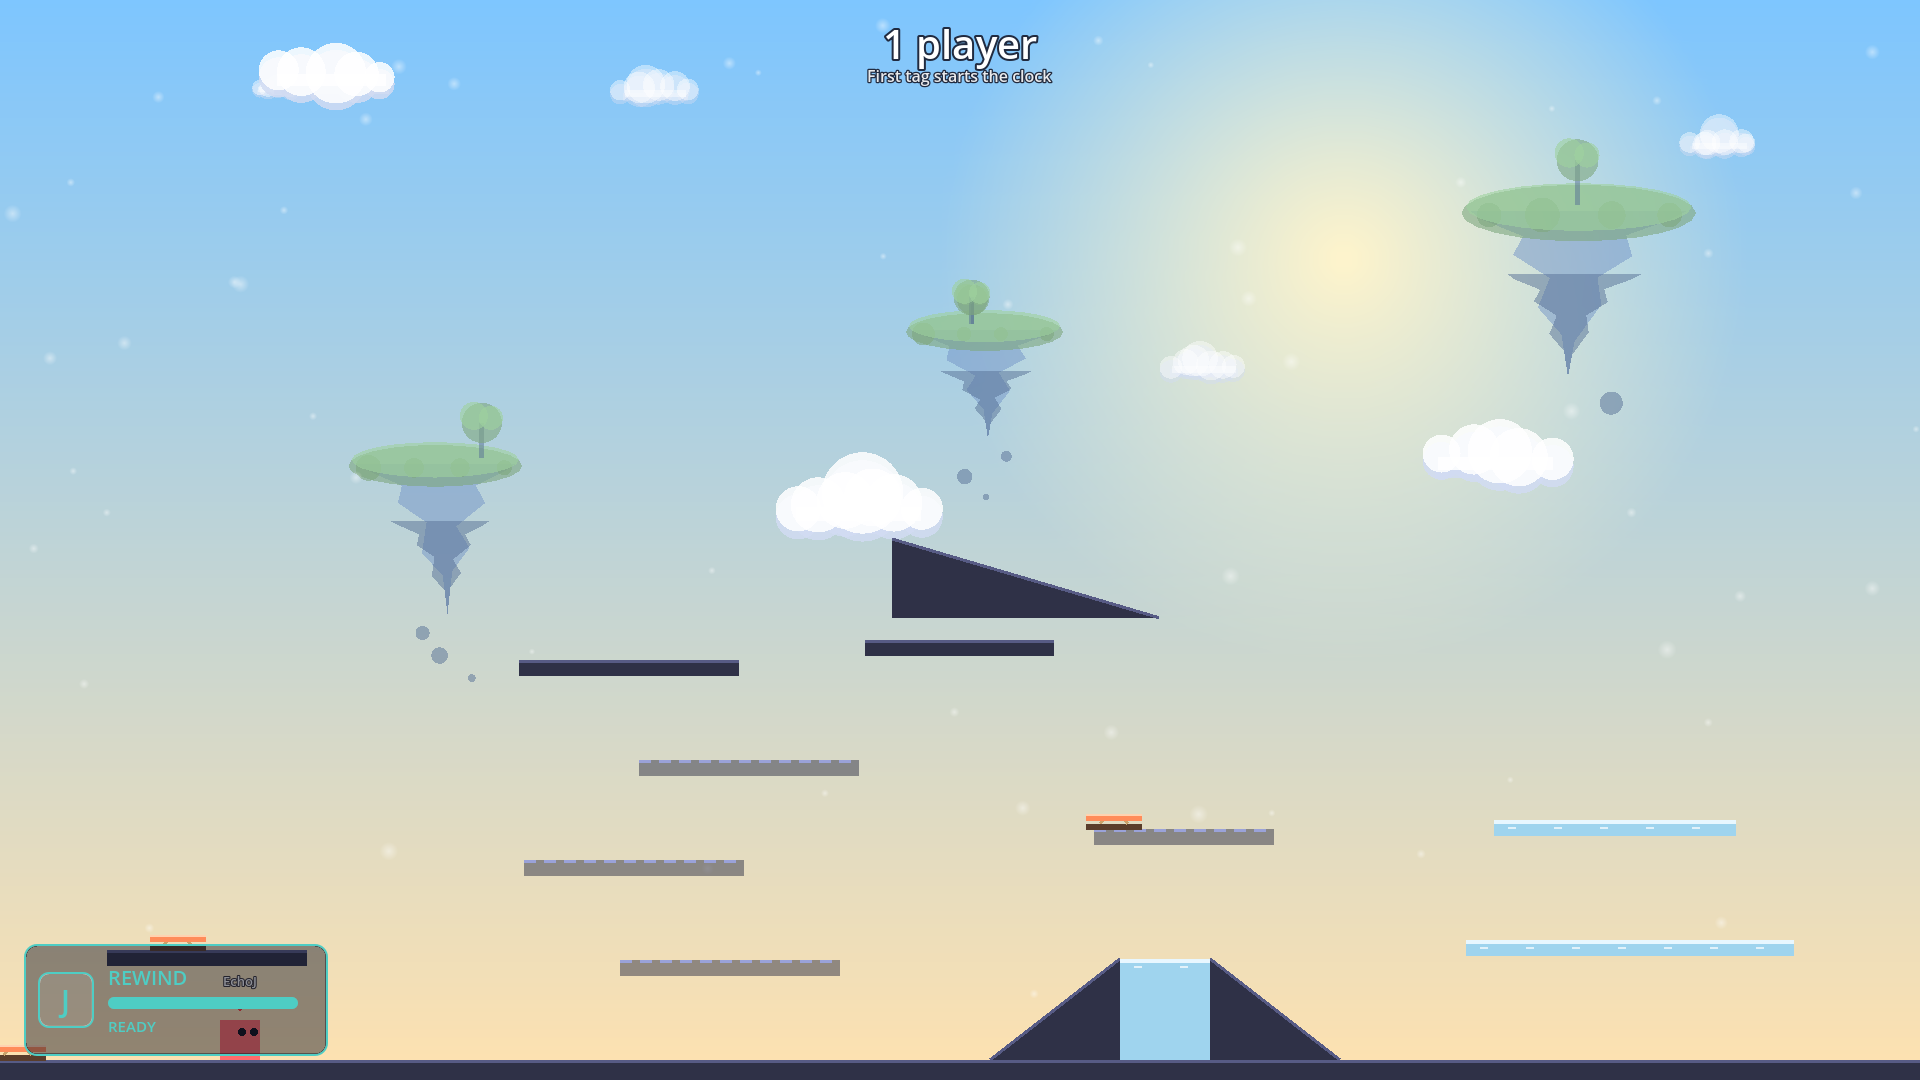
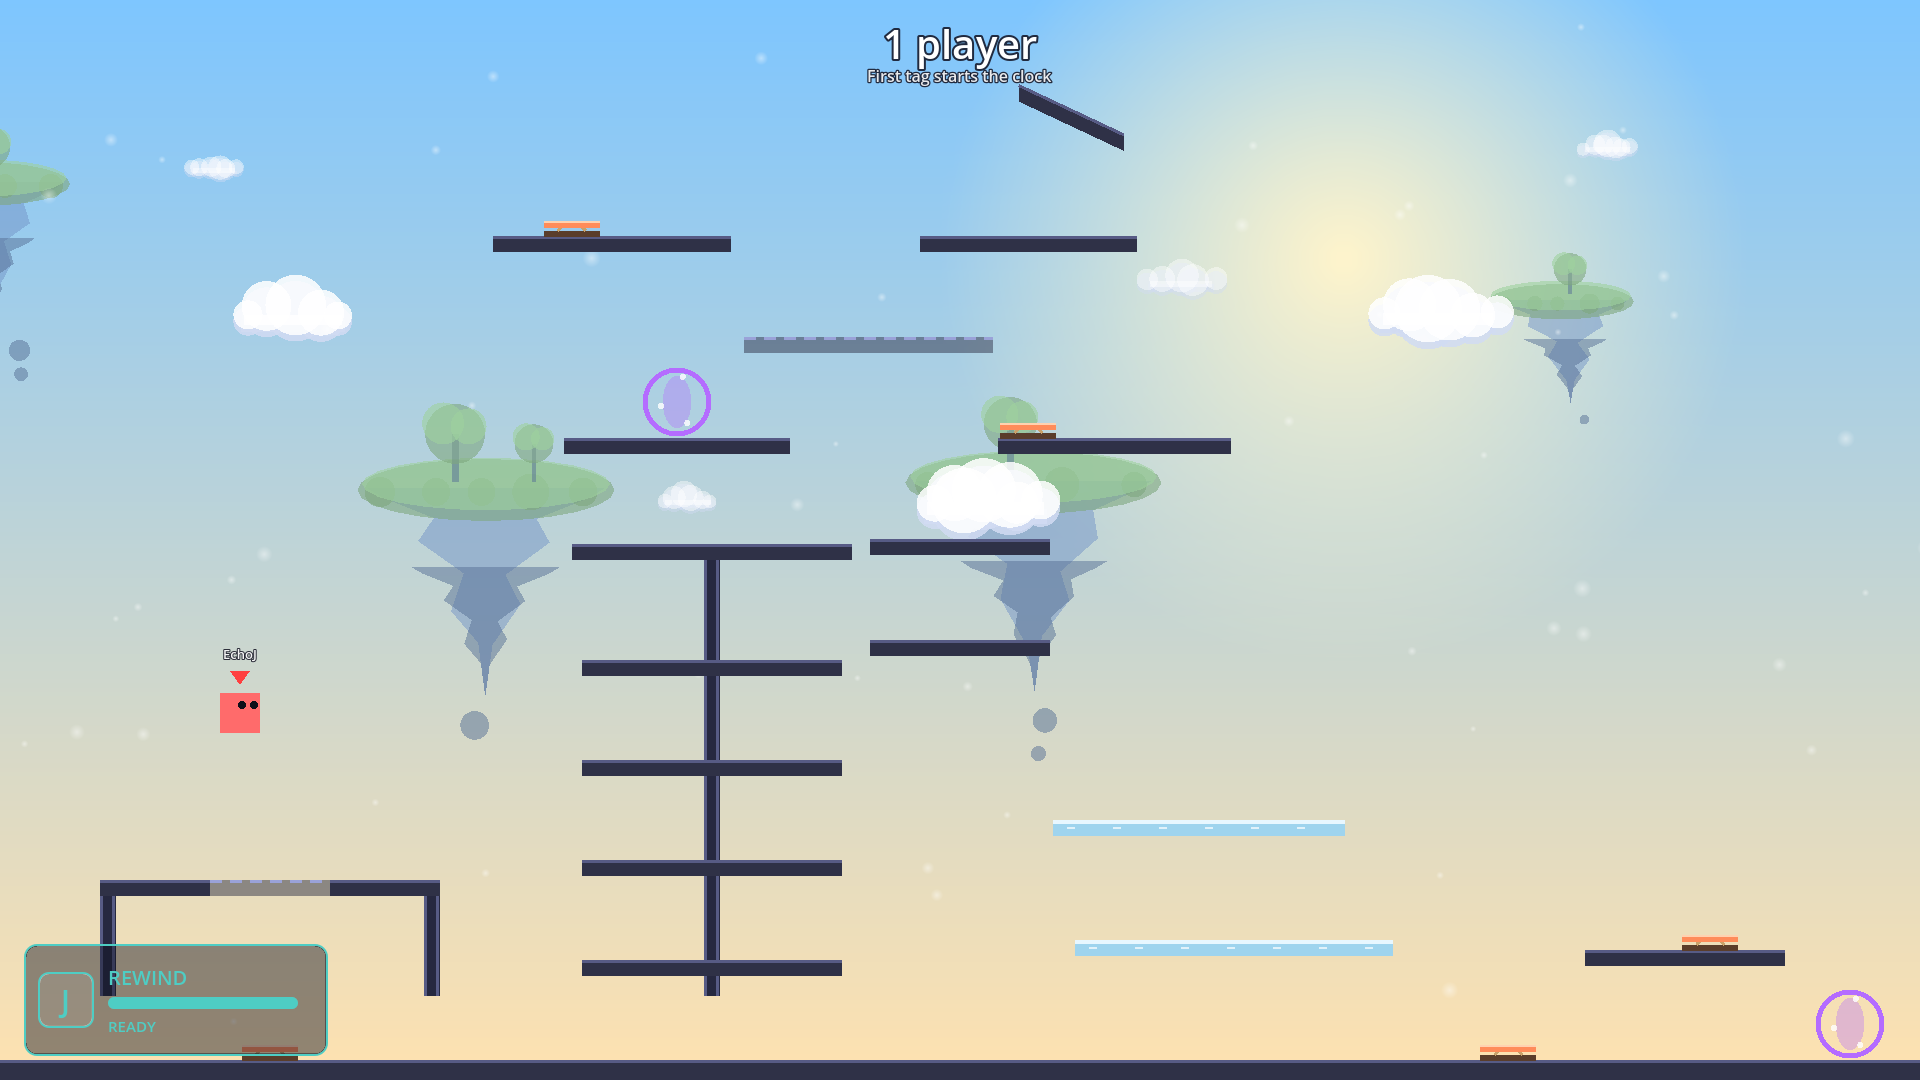
Slabs not wedges, mast not mounds: terrain rework per playtest feedback
- Ground mounds and the ridge are gone (the ramp-sided boxes read as
  wonky). Angled platforms are now normal 16px-thick slabs tilted at
  slight varying angles (5-17 degrees) - the rect is the bounding box
  including thickness, collision is a convex parallelogram, and the
  planner reads walk heights off the actual top edge.
- New landmark: the Mast - a tall spine wall with rungs crossing it
  (some thru), a crow's nest joining the sides at the top, and a 64px
  gap at the base so the ground stays runnable. Two parallel ladders
  sharing a divider; juke by switching sides under or over.
- _edge_ok now tries side-approach landing candidates (nearest point
  plus each end of the target), not just the center-aligned arc - a
  central pillar like the mast spine blocked the straight arc even
  when a side approach works. More honest reachability everywhere.
- Landmark pool: scaffold, pocket, ice rink, spring yard, mast.

Gate: 50 seeds + presets sound, deterministic; strict bots ALL CHECKS
PASSED on a mast map (real collision through rungs and under the
spine). README gameplay shot refreshed (seed 42, day theme).

diff --git a/docs/release_notes_v1.3.0.md b/docs/release_notes_v1.3.0.md
@@ -2,11 +2,9 @@ The Terrain Update — **maps stop being flat**.
 
 Until now every surface in Slippington was a flat horizontal rectangle. This release adds a real geometry vocabulary, built on ideas from platformer level-generation research (Spelunky's verified room chunks, Launchpad's component grammars):
 
-- **Ramps.** True angled surfaces you run up and down — including **ice ramps** (a slope you slide on; commit carefully). Every gradient stays walkable.
-- **Ground mounds.** The floor itself rolls now: low hills with flat (sometimes icy) crowns rise from the ground between landmarks.
-- **The Ridge.** A new landmark — a climbable hill whose crown sits above jump height, so the two ramps *are* the ways up and chases flow over the summit instead of circling a box. There are now five landmark kinds and four columns, so every map is missing a different one.
-- **Bent platforms.** Flats can grow a ramp off one end — L-shaped ledges that break up the horizontal monotony.
+- **Angled platforms.** Normal-thickness platforms tilted at slight, varying angles — run up them, slide down them, and yes, some of them are **ice**. Flats can also grow a **bent end**: an L-shaped ledge rising off one side.
+- **The Mast.** A new landmark: one tall spine with platforms sticking out across it — two parallel ladders sharing a divider. The sides connect under the base and over the crow's nest at the top; mid-climb the spine blocks horizontal moves, so the play is the feint — start up one side, drop through, slip under the base, climb the other. There are now five landmark kinds and four columns, so every map is missing a different one.
 
-The map planner verifies all of it with real jump physics, exactly like before: takeoffs and landings are now computed on the incline itself, so every generated map is still provably traversable and bottleneck-free — same seed, same map, for everyone.
+The map planner verifies all of it with real jump physics, exactly like before — takeoffs and landings are computed on the incline itself, and arcs now consider side approaches (so structures like the mast verify honestly). Every generated map is still provably traversable and bottleneck-free — same seed, same map, for everyone.
 
 Windows: SmartScreen → *More info → Run anyway*. macOS: right-click → Open the first time.